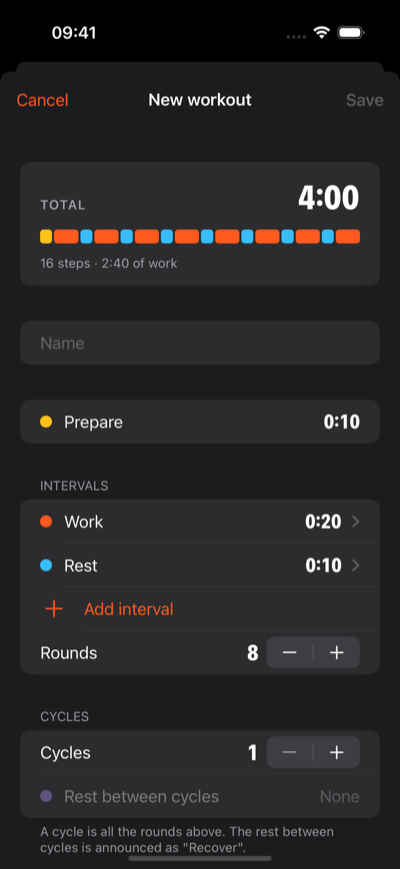
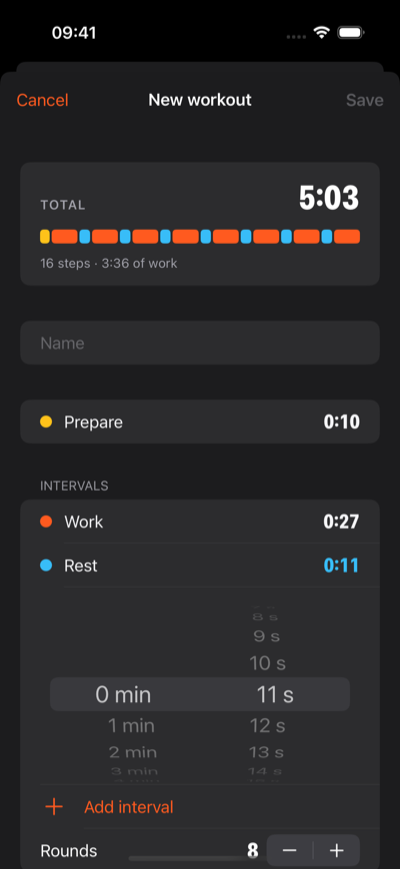
Edit interval times in the list, add ipa.sh, show the build number
- Tapping an interval opens its minute and second wheels right in the
  list; holding it offers Rename, Make it Rest/Work and Delete. The
  separate interval screen is gone: its Work/Rest switch read like two
  tabs to configure, while it changed the interval's kind.
- The wheels are one UIKit picker with minutes and seconds, like the
  Clock app's timer.
- ipa.sh builds an unsigned .ipa to share, or a signed one for your own
  iPhone. install.sh and ipa.sh stamp each build with its date and time,
  shown at the bottom of Settings.
- .ipa files stay out of git.

diff --git a/Ritmo/Views/EditorView.swift b/Ritmo/Views/EditorView.swift
@@ -27,19 +27,10 @@ struct EditorView: View {
                 Section {
                     DurationRow(title: "Prepare", color: Step.Phase.prepare.bright, seconds: $workout.prepare, allowsNone: true)
                 }
-                Section("Intervals") {
-                    ForEach($workout.intervals) { $interval in
-                        NavigationLink {
-                            IntervalEditor(interval: $interval)
-                        } label: {
-                            HStack(spacing: 12) {
-                                Circle().fill(interval.kind.color).frame(width: 12, height: 12)
-                                Text(interval.name.isEmpty ? interval.kind.defaultName : interval.name)
-                                Spacer()
-                                Text(clockText(interval.seconds))
-                                    .font(.condensed(20))
-                                    .monospacedDigit()
-                            }
+                Section {
+                    ForEach(workout.intervals) { interval in
+                        IntervalRow(interval: binding(for: interval.id)) {
+                            workout.intervals.removeAll { $0.id == interval.id }
                         }
                     }
                     .onMove { workout.intervals.move(fromOffsets: $0, toOffset: $1) }
@@ -48,6 +39,10 @@ struct EditorView: View {
                     Stepper(value: $workout.rounds, in: 1...99) {
                         countLabel("Rounds", workout.rounds)
                     }
+                } header: {
+                    Text("Intervals")
+                } footer: {
+                    Text("Tap an interval to set its time. Hold it to rename it, switch between Work and Rest, or delete it.")
                 }
                 Section {
                     Stepper(value: $workout.cycles, in: 1...20) {
@@ -111,6 +106,16 @@ struct EditorView: View {
         }
     }
 
+    /// The interval with this id, looked up on every read and write,
+    /// so an edit can only ever reach that interval.
+    private func binding(for id: Interval.ID) -> Binding<Interval> {
+        Binding {
+            workout.intervals.first { $0.id == id } ?? .work(0)
+        } set: { interval in
+            if let i = workout.intervals.firstIndex(where: { $0.id == id }) { workout.intervals[i] = interval }
+        }
+    }
+
     /// A Rest after a Work, a Work after a Rest.
     private func addInterval() {
         let kind: Interval.Kind = workout.intervals.last?.kind == .work ? .rest : .work
@@ -118,28 +123,50 @@ struct EditorView: View {
     }
 }
 
-private struct IntervalEditor: View {
+/// An interval edited in place: a tap opens its wheels, holding it offers the rest.
+private struct IntervalRow: View {
     @Binding var interval: Interval
+    let delete: () -> Void
+    @State private var isOpen = false
+    @State private var isRenaming = false
+    @State private var newName = ""
 
     var body: some View {
-        Form {
-            Section {
-                TextField("Name", text: $interval.name)
-            }
-            Section {
-                Picker("Type", selection: $interval.kind) {
-                    Text("Work").tag(Interval.Kind.work)
-                    Text("Rest").tag(Interval.Kind.rest)
-                }
-                .pickerStyle(.segmented)
-                DurationRow(title: "Duration", color: interval.kind.color, seconds: $interval.seconds, isOpen: true)
-            }
+        Button {
+            withAnimation { isOpen.toggle() }
+        } label: {
+            DurationLabel(
+                title: interval.name.isEmpty ? interval.kind.defaultName : interval.name,
+                color: interval.kind.color,
+                seconds: interval.seconds,
+                isOpen: isOpen
+            )
         }
-        .navigationTitle(interval.name.isEmpty ? "Interval" : interval.name)
-        .navigationBarTitleDisplayMode(.inline)
-        .onChange(of: interval.kind) { old, new in
-            if interval.name == old.defaultName { interval.name = new.defaultName }
+        .contextMenu {
+            Button("Rename", systemImage: "pencil") {
+                newName = interval.name
+                isRenaming = true
+            }
+            Button(interval.kind == .work ? "Make it Rest" : "Make it Work", systemImage: "arrow.left.arrow.right", action: switchKind)
+            Button("Delete", systemImage: "trash", role: .destructive, action: delete)
         }
+        .alert("Rename interval", isPresented: $isRenaming) {
+            TextField(interval.kind.defaultName, text: $newName)
+            Button("Cancel", role: .cancel) {}
+            Button("Save") { interval.name = newName.trimmingCharacters(in: .whitespaces) }
+        }
+        if isOpen {
+            DurationWheels(seconds: $interval.seconds, allowsNone: false)
+                .frame(maxWidth: .infinity)
+                .frame(height: 160)
+        }
+    }
+
+    /// A Work becomes a Rest and the other way round; a default name follows the kind.
+    private func switchKind() {
+        let old = interval.kind
+        interval.kind = old == .work ? .rest : .work
+        if interval.name == old.defaultName { interval.name = interval.kind.defaultName }
     }
 }
 
@@ -149,51 +176,88 @@ struct DurationRow: View {
     let color: Color
     @Binding var seconds: Int
     var allowsNone = false
-    @State var isOpen = false
+    @State private var isOpen = false
 
     var body: some View {
         Button {
             withAnimation { isOpen.toggle() }
         } label: {
-            HStack(spacing: 12) {
-                Circle().fill(color).frame(width: 12, height: 12)
-                Text(title).foregroundStyle(Theme.text)
-                Spacer()
-                if seconds == 0 {
-                    Text("None").foregroundStyle(Theme.secondary)
-                } else {
-                    Text(clockText(seconds))
-                        .font(.condensed(20))
-                        .monospacedDigit()
-                        .foregroundStyle(isOpen ? color : Theme.text)
-                }
-            }
+            DurationLabel(title: title, color: color, seconds: seconds, isOpen: isOpen)
         }
         if isOpen {
-            HStack(spacing: 0) {
-                Picker("Minutes", selection: minutes) {
-                    ForEach(0..<100, id: \.self) { Text("\($0) min").tag($0) }
-                }
+            DurationWheels(seconds: $seconds, allowsNone: allowsNone)
                 .frame(maxWidth: .infinity)
-                .clipped()
-                Picker("Seconds", selection: secondsPart) {
-                    ForEach(0..<60, id: \.self) { Text("\($0) s").tag($0) }
-                }
-                .frame(maxWidth: .infinity)
-                .clipped()
+                .frame(height: 160)
+        }
+    }
+}
+
+/// A dot in the phase colour, a name and a duration, or "None".
+private struct DurationLabel: View {
+    let title: String
+    let color: Color
+    let seconds: Int
+    let isOpen: Bool
+
+    var body: some View {
+        HStack(spacing: 12) {
+            Circle().fill(color).frame(width: 12, height: 12)
+            Text(title).foregroundStyle(Theme.text)
+            Spacer()
+            if seconds == 0 {
+                Text("None").foregroundStyle(Theme.secondary)
+            } else {
+                Text(clockText(seconds))
+                    .font(.condensed(20))
+                    .monospacedDigit()
+                    .foregroundStyle(isOpen ? color : Theme.text)
             }
-            .pickerStyle(.wheel)
-            .frame(height: 160)
+        }
+    }
+}
+
+/// Minute and second wheels in one UIKit picker, like the Clock app's timer:
+/// one control, so a swipe can't move the wrong wheel, and it writes only when the user turns it.
+private struct DurationWheels: UIViewRepresentable {
+    @Binding var seconds: Int
+    let allowsNone: Bool
+
+    func makeUIView(context: Context) -> UIPickerView {
+        let picker = UIPickerView()
+        picker.dataSource = context.coordinator
+        picker.delegate = context.coordinator
+        picker.setContentCompressionResistancePriority(.defaultLow, for: .horizontal)
+        return picker
+    }
+
+    func updateUIView(_ picker: UIPickerView, context: Context) {
+        context.coordinator.wheels = self
+        let rows = [seconds / 60, seconds % 60]
+        for (component, row) in rows.enumerated() where picker.selectedRow(inComponent: component) != row {
+            picker.selectRow(row, inComponent: component, animated: false)
         }
     }
 
-    private var minutes: Binding<Int> {
-        Binding { seconds / 60 } set: { seconds = clamped($0 * 60 + seconds % 60) }
-    }
+    func makeCoordinator() -> Coordinator { Coordinator(self) }
 
-    private var secondsPart: Binding<Int> {
-        Binding { seconds % 60 } set: { seconds = clamped(seconds / 60 * 60 + $0) }
-    }
+    final class Coordinator: NSObject, UIPickerViewDataSource, UIPickerViewDelegate {
+        var wheels: DurationWheels
 
-    private func clamped(_ value: Int) -> Int { allowsNone ? value : max(1, value) }
+        init(_ wheels: DurationWheels) { self.wheels = wheels }
+
+        func numberOfComponents(in pickerView: UIPickerView) -> Int { 2 }
+
+        func pickerView(_ pickerView: UIPickerView, numberOfRowsInComponent component: Int) -> Int {
+            component == 0 ? 100 : 60
+        }
+
+        func pickerView(_ pickerView: UIPickerView, titleForRow row: Int, forComponent component: Int) -> String? {
+            component == 0 ? "\(row) min" : "\(row) s"
+        }
+
+        func pickerView(_ pickerView: UIPickerView, didSelectRow row: Int, inComponent component: Int) {
+            let total = pickerView.selectedRow(inComponent: 0) * 60 + pickerView.selectedRow(inComponent: 1)
+            wheels.seconds = wheels.allowsNone ? total : max(1, total)
+        }
+    }
 }

diff --git a/Ritmo/Views/SettingsView.swift b/Ritmo/Views/SettingsView.swift
@@ -10,6 +10,12 @@ struct SettingsView: View {
     @State private var importing = false
     @State private var importMessage: String?
 
+    /// "1.0 (20261103.1045)": install.sh and ipa.sh stamp the build with its date and time.
+    private static let version: String = {
+        let info = Bundle.main.infoDictionary ?? [:]
+        return "\(info["CFBundleShortVersionString"] as? String ?? "?") (\(info["CFBundleVersion"] as? String ?? "?"))"
+    }()
+
     var body: some View {
         NavigationStack {
             Form {
@@ -38,6 +44,10 @@ struct SettingsView: View {
                     Text("Workouts")
                 } footer: {
                     Text("Workouts travel as .ritmo files: share them, keep a copy in Files, and open one on an iPhone with Ritmo to add its workouts.")
+                }
+                Section {} footer: {
+                    Text("Ritmo \(Self.version)")
+                        .frame(maxWidth: .infinity)
                 }
             }
             .navigationTitle("Settings")

diff --git a/SPEC.md b/SPEC.md
@@ -150,7 +150,9 @@ Arancio e azzurro si distinguono anche con il daltonismo rosso-verde. Il nome de
 
 In cima ci sono la durata totale e la striscia, che si aggiornano mentre modifichi.
 
-Ogni intervallo ha nome, durata (rotelle min:sec) e tipo, Work o Rest. "Add interval" aggiunge un Rest dopo un Work, e un Work dopo un Rest.
+Ogni intervallo si regola nella lista stessa: un tocco apre sotto di lui la rotella di minuti e secondi, come nell'app Orologio. Tenendolo premuto puoi rinominarlo, trasformarlo da Work in Rest (o viceversa) ed eliminarlo. "Add interval" aggiunge un Rest dopo un Work, e un Work dopo un Rest.
+
+Niente schermata separata per l'intervallo: il selettore Work/Rest che c'era dentro veniva scambiato per due schede da configurare, mentre cambiava il tipo dell'intervallo.
 
 ### 5.3 Timer in verticale: Marea
 
@@ -181,7 +183,7 @@ La colonna a destra contiene, dall'alto:
 
 ### 5.5 Settings
 
-Tre interruttori, tutti attivi di default: Voice, Vibration e Lower music during cues. Sotto, la sezione Workouts: Share all workouts e Import from Files.
+Tre interruttori, tutti attivi di default: Voice, Vibration e Lower music during cues. Sotto, la sezione Workouts: Share all workouts e Import from Files. In fondo, la versione con il numero di build, cioè data e ora di compilazione, per sapere quale versione c'è sul telefono.
 
 ### 5.6 Schermata di blocco e Dynamic Island
 
@@ -230,6 +232,7 @@ Config/               Info.plist dell'app e dell'estensione
 Tests/                test della logica
 Package.swift         serve solo a eseguire i test dal terminale
 install.sh            compila e installa sull'iPhone collegato
+ipa.sh                crea build/Ritmo.ipa (non firmato) o build/Ritmo-signed.ipa
 examples/             workout da importare
 docs/screenshots/     immagini per il README
 ```
@@ -249,6 +252,8 @@ Con un **Apple ID gratuito** (la strada scelta):
 La prima volta macOS chiede la password del Mac per usare la chiave di firma: rispondi "Consenti sempre".
 
 **Ogni settimana**, prima che la firma scada: apri `Ritmo.xcodeproj` in Xcode con l'iPhone collegato e premi ▶ (Run). Con Xcode 27 serve proprio Xcode: da Terminale il tuo Apple ID non si vede, quindi `./install.sh` reinstalla l'app (per esempio dopo una modifica) solo finché la firma della settimana è valida.
+
+**File .ipa**: `./ipa.sh` crea `build/Ritmo.ipa` non firmato e senza dati del tuo account; anche i percorsi del Mac vengono tolti dai file eseguibili. Va bene per SideStore, AltStore o Sideloadly, che lo firmano con l'Apple ID di chi lo installa, e si può dare ad altri. `./ipa.sh --signed` crea invece `build/Ritmo-signed.ipa`, firmato col tuo team per il tuo iPhone, da installare per esempio con Apple Configurator: contiene il tuo Apple ID e l'identificativo del telefono, quindi resta tuo.
 
 **Ogni 7 giorni la firma scade**: l'app non si apre più finché non la reinstalli, ma i dati restano. È una regola di Apple per tutte le app che non arrivano dall'App Store, e non ci sono eccezioni gratuite. Si può però rendere quasi invisibile:
 

diff --git a/README.md b/README.md
@@ -36,6 +36,8 @@ Ritmo isn't on the App Store, but you can build it with a free Apple ID:
 
 With a free Apple ID the signature lasts 7 days, so press Run again once a week; your workouts stay on the phone. While the week's signature is valid, `./install.sh` reinstalls the app from the terminal.
 
+To install it without Xcode, `./ipa.sh` builds an unsigned `build/Ritmo.ipa` for SideStore, AltStore or Sideloadly, which sign it with the Apple ID of whoever installs it. `./ipa.sh --signed` builds `build/Ritmo-signed.ipa`, signed with your own team for your own iPhone, to install with Apple Configurator; that file contains your Apple ID, so keep it to yourself.
+
 ## The `.ritmo` format
 
 It's JSON, so it can be written by hand; missing ids are created on import.
